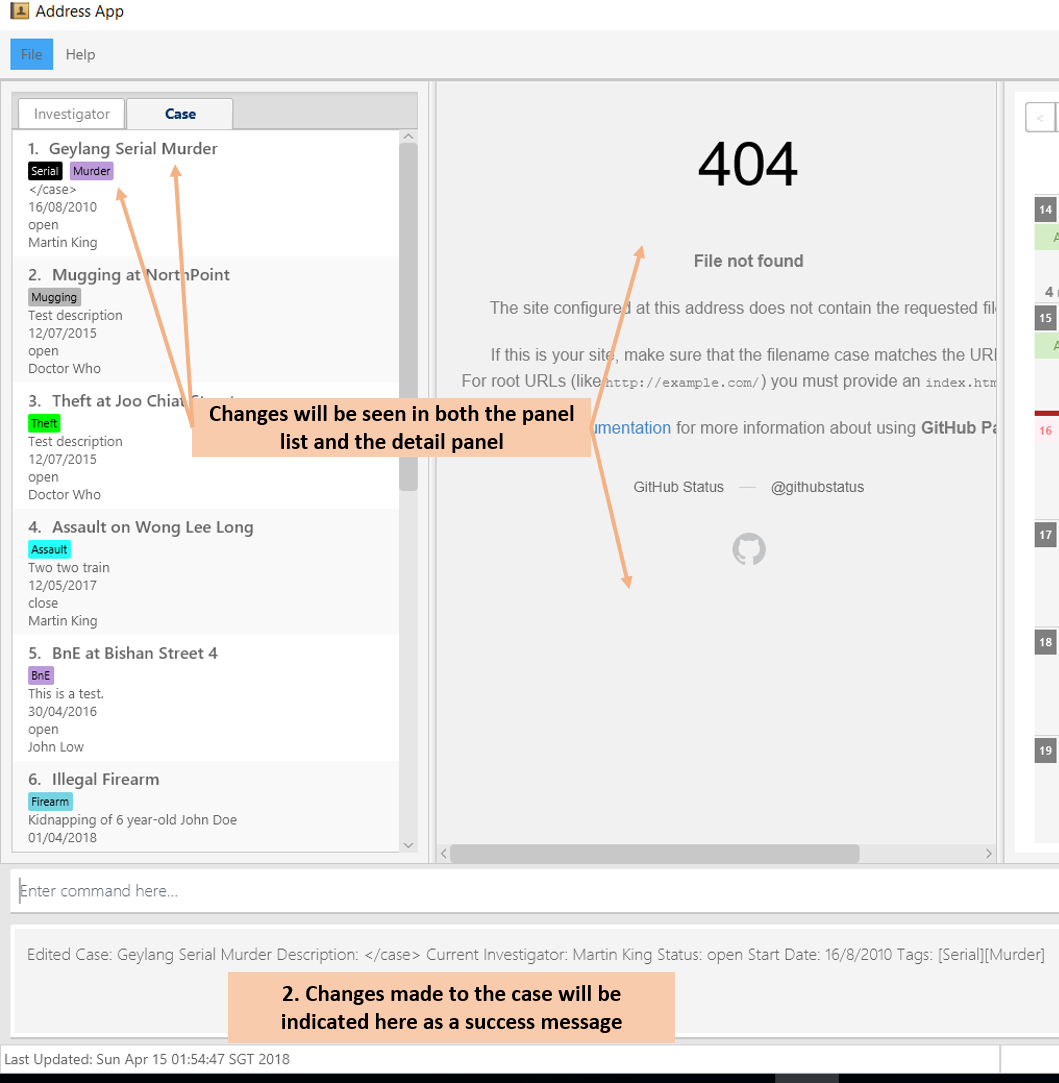
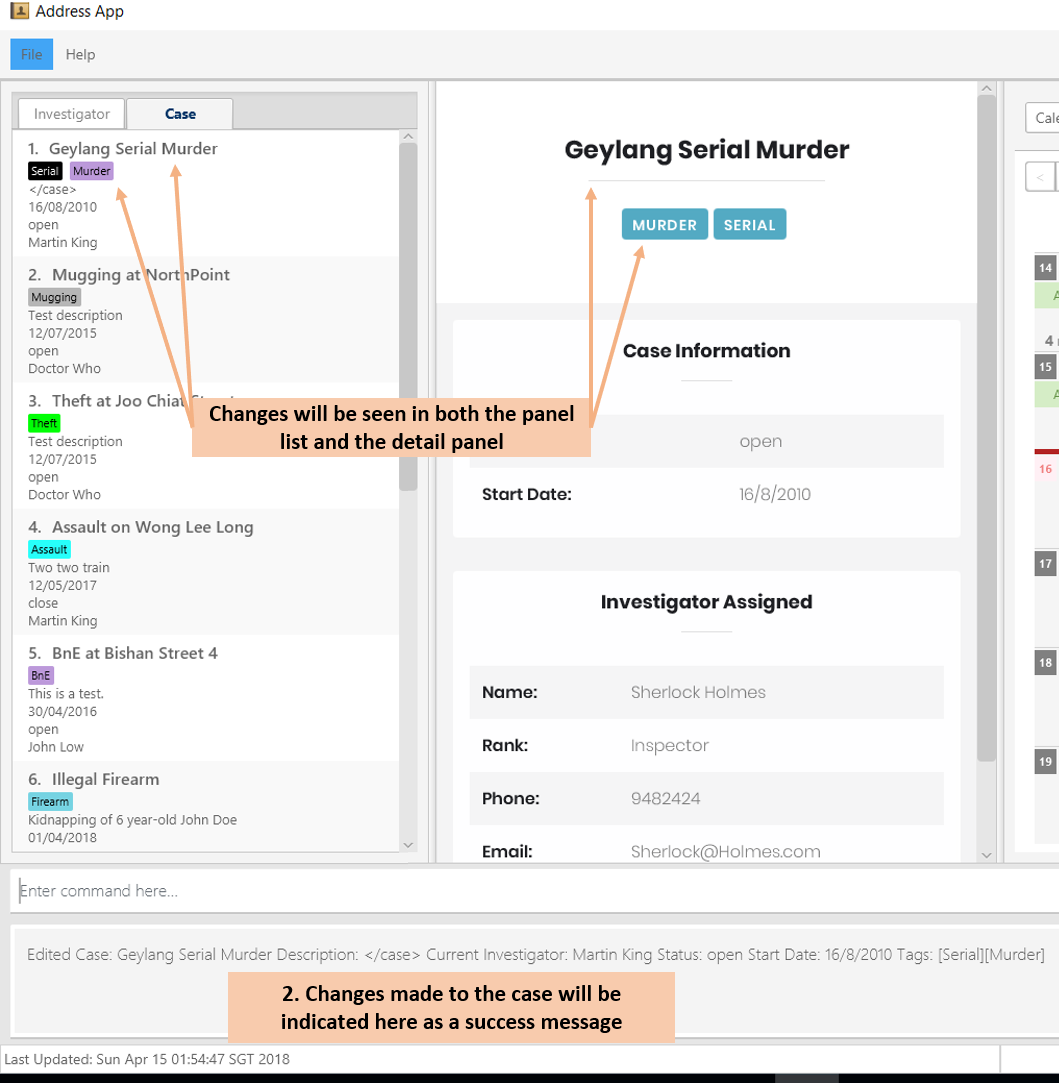
Rebuild pages at 6035ef9427466abda99f17dcc539bccba15c46eb

diff --git a/team/leowweiching.html b/team/leowweiching.html
@@ -219,13 +219,13 @@ You can remove all the investigator&#8217;s tags by typing <code>t/</code> witho
 </div>
 <div id="editcase1" class="imageblock">
 <div class="content">
-<img src="../images/userguide-images/ec-command1.png" alt="ec command1" width="450">
+<img src="../images/userguide-images/ec-command1.png" alt="ec command1" width="790">
 </div>
 <div class="title">Figure 2. Editing Case</div>
 </div>
 <div id="editcase2" class="imageblock">
 <div class="content">
-<img src="../images/userguide-images/ec-command2.png" alt="ec command2" width="450">
+<img src="../images/userguide-images/ec-command2.png" alt="ec command2" width="790">
 </div>
 <div class="title">Figure 3. Result</div>
 </div>
@@ -568,7 +568,7 @@ Selects the 3rd case in the most recent list of cases.</p>
 </div>
 <div id="footer">
 <div id="footer-text">
-Last updated 2018-04-15 11:50:09 UTC
+Last updated 2018-04-15 11:50:56 UTC
 </div>
 </div>
 </body>

diff --git a/UserGuide.html b/UserGuide.html
@@ -1567,13 +1567,13 @@ You can remove all the investigator&#8217;s tags by typing <code>t/</code> witho
 </div>
 <div id="editcase1" class="imageblock">
 <div class="content">
-<img src="images/userguide-images/ec-command1.png" alt="ec command1" width="450">
+<img src="images/userguide-images/ec-command1.png" alt="ec command1" width="790">
 </div>
 <div class="title">Figure 29. Editing Case</div>
 </div>
 <div id="editcase2" class="imageblock">
 <div class="content">
-<img src="images/userguide-images/ec-command2.png" alt="ec command2" width="450">
+<img src="images/userguide-images/ec-command2.png" alt="ec command2" width="790">
 </div>
 <div class="title">Figure 30. Result</div>
 </div>
@@ -2452,7 +2452,7 @@ There is no need to save manually.</p>
 </div>
 <div id="footer">
 <div id="footer-text">
-Last updated 2018-04-15 11:50:09 UTC
+Last updated 2018-04-15 11:50:56 UTC
 </div>
 </div>
 </body>

diff --git a/LearningOutcomes.html b/LearningOutcomes.html
@@ -561,7 +561,7 @@ class gives some examples of how to use <em>Equivalence Partitions</em>, <em>Bou
 </div>
 <div id="footer">
 <div id="footer-text">
-Last updated 2018-04-15 11:50:09 UTC
+Last updated 2018-04-15 11:50:56 UTC
 </div>
 </div>
 </body>

diff --git a/UsingCoveralls.html b/UsingCoveralls.html
@@ -115,7 +115,7 @@ If you have not set up Travis CI, see <a href="UsingTravis.html">UsingTravis.ado
 </div>
 <div id="footer">
 <div id="footer-text">
-Last updated 2018-04-15 11:50:09 UTC
+Last updated 2018-04-15 11:50:56 UTC
 </div>
 </div>
 </body>

diff --git a/UsingGradle.html b/UsingGradle.html
@@ -261,7 +261,7 @@ See <code>build.gradle</code> &#8594; <code>allprojects</code> &#8594; <code>dep
 </div>
 <div id="footer">
 <div id="footer-text">
-Last updated 2018-04-15 11:50:09 UTC
+Last updated 2018-04-15 11:50:56 UTC
 </div>
 </div>
 </body>

diff --git a/UsingNetlify.html b/UsingNetlify.html
@@ -142,7 +142,7 @@ The publish directory is the directory in which the built HTML documentation res
 </div>
 <div id="footer">
 <div id="footer-text">
-Last updated 2018-04-15 11:50:09 UTC
+Last updated 2018-04-15 11:50:56 UTC
 </div>
 </div>
 </body>

diff --git a/team/pkaijun.html b/team/pkaijun.html
@@ -1219,7 +1219,7 @@ that are extended from parent class <code>FindByStatusCommand</code></p>
 </div>
 <div id="footer">
 <div id="footer-text">
-Last updated 2018-04-15 11:50:09 UTC
+Last updated 2018-04-15 11:50:56 UTC
 </div>
 </div>
 </body>

diff --git a/UsingTravis.html b/UsingTravis.html
@@ -299,7 +299,7 @@ Suggested change: Remove the codacy badge from <code>README</code>.</p>
 </div>
 <div id="footer">
 <div id="footer-text">
-Last updated 2018-04-15 11:50:09 UTC
+Last updated 2018-04-15 11:50:56 UTC
 </div>
 </div>
 </body>

diff --git a/AboutUs.html b/AboutUs.html
@@ -95,7 +95,7 @@ Responsibilities: Documentation, UI, Deliverables and Deadlines<br></p>
 </div>
 <div id="footer">
 <div id="footer-text">
-Last updated 2018-04-15 11:50:09 UTC
+Last updated 2018-04-15 11:50:56 UTC
 </div>
 </div>
 </body>

diff --git a/team/MarcusChen.html b/team/MarcusChen.html
@@ -893,7 +893,7 @@ xml by using the <code>backupInvestigapptor</code> method.</p>
 </div>
 <div id="footer">
 <div id="footer-text">
-Last updated 2018-04-15 11:50:09 UTC
+Last updated 2018-04-15 11:50:56 UTC
 </div>
 </div>
 </body>

diff --git a/team/quentinkhoo.html b/team/quentinkhoo.html
@@ -485,7 +485,7 @@ access control between investigators of different ranks.</p>
 </div>
 <div id="footer">
 <div id="footer-text">
-Last updated 2018-04-15 11:50:09 UTC
+Last updated 2018-04-15 11:50:56 UTC
 </div>
 </div>
 </body>

diff --git a/UsingCheckstyle.html b/UsingCheckstyle.html
@@ -103,7 +103,7 @@ Restart the IDE to complete the installation.</p>
 </div>
 <div id="footer">
 <div id="footer-text">
-Last updated 2018-04-15 11:50:09 UTC
+Last updated 2018-04-15 11:50:56 UTC
 </div>
 </div>
 </body>
